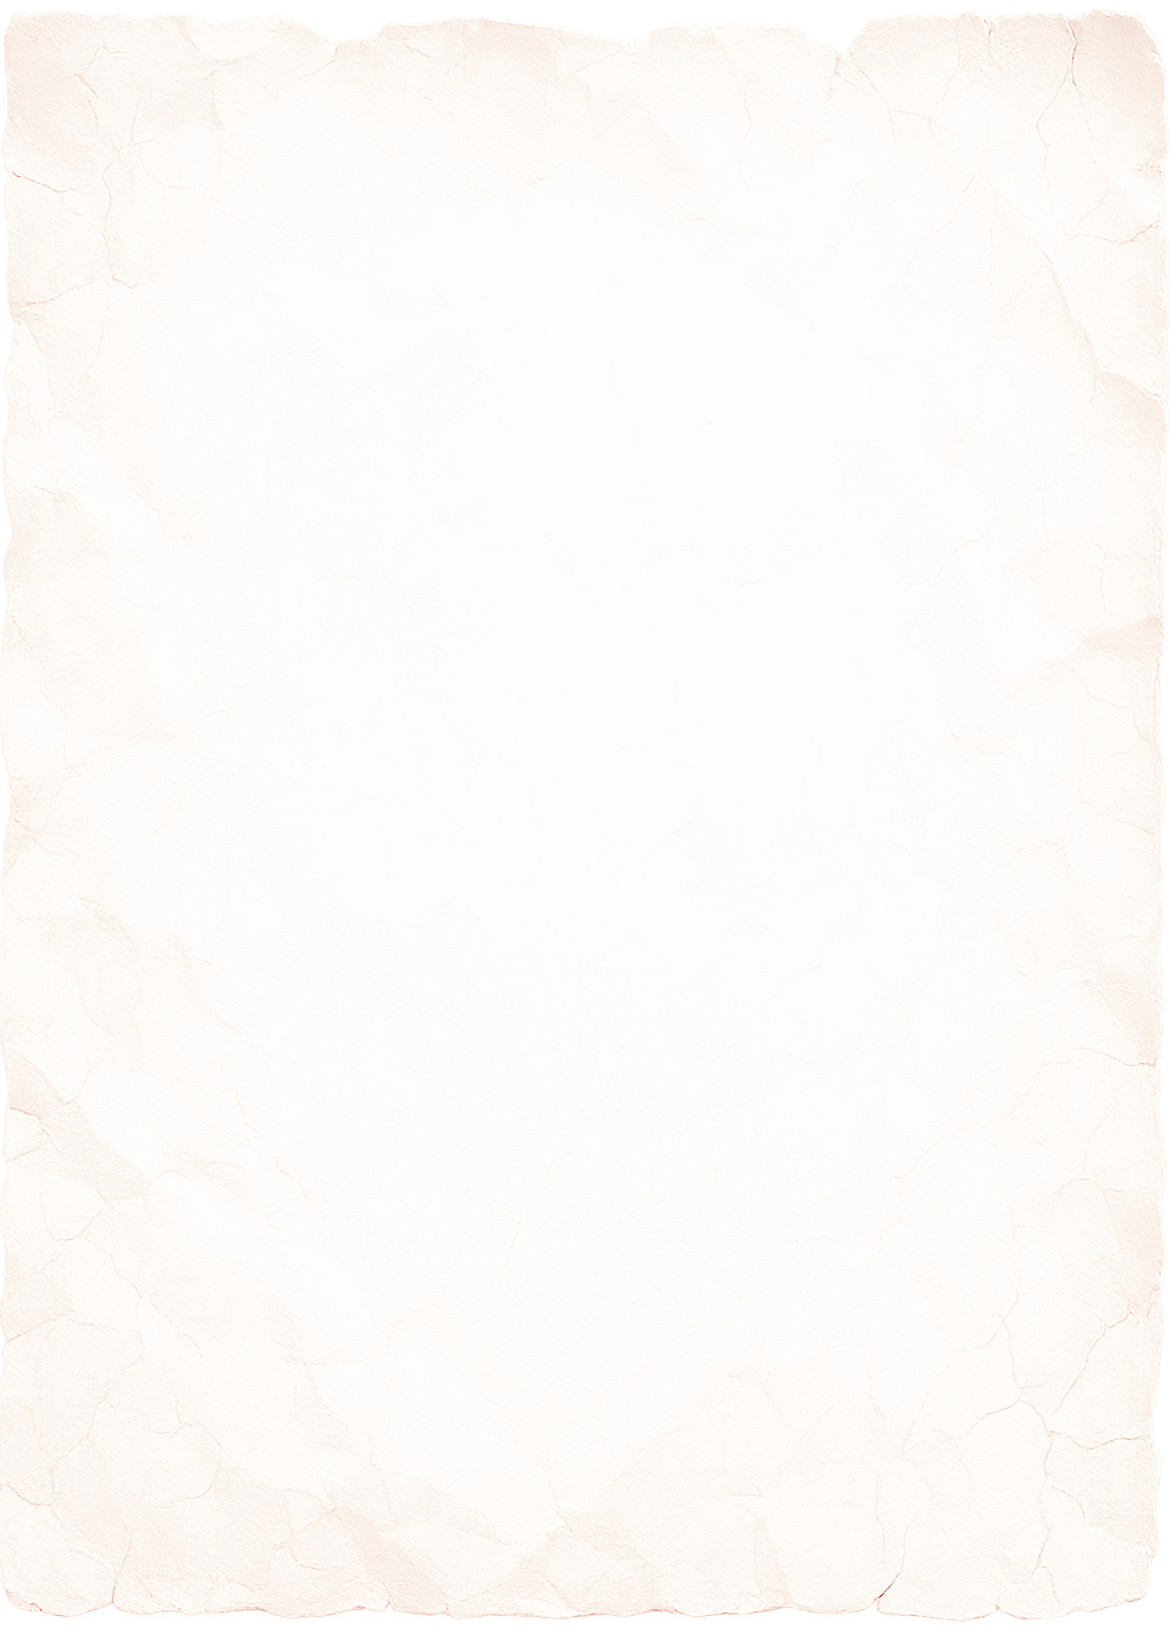
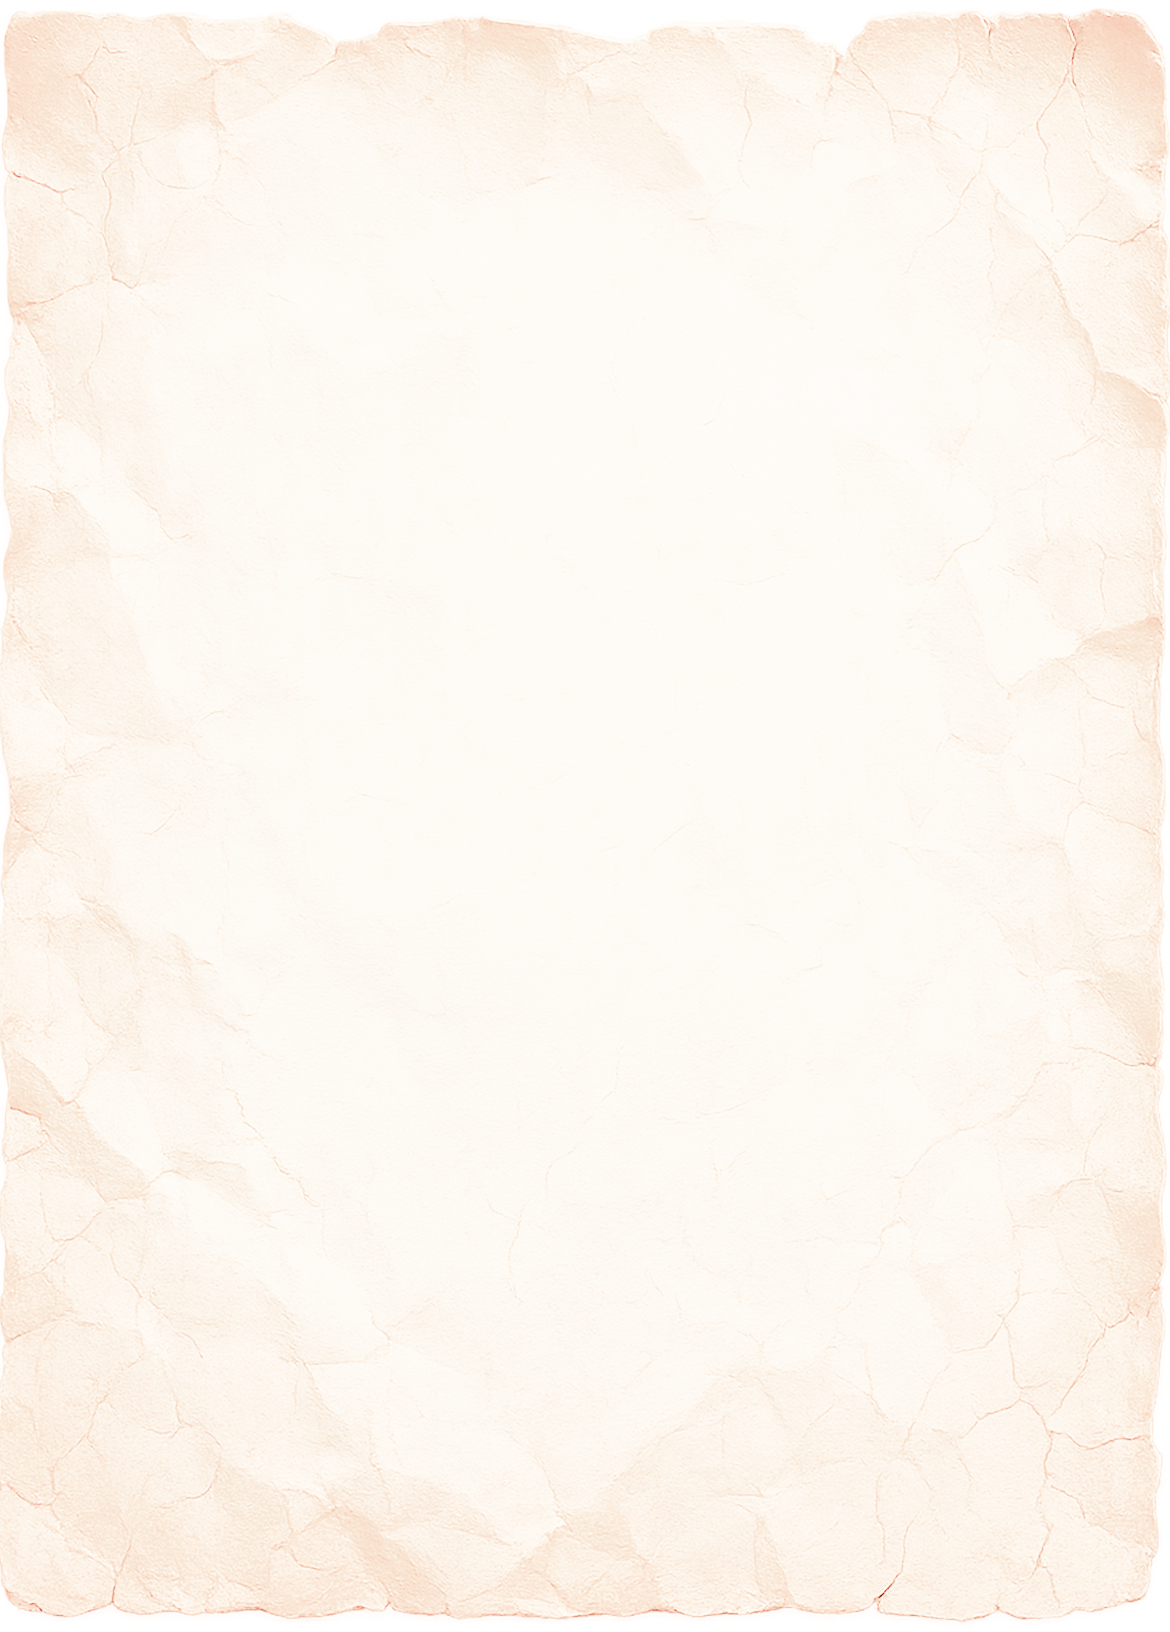
Position paper texture from top on bottom sheets
Changed background-position from 'center' to 'top center' so paper texture
starts from the top of bottom sheets, showing the top portion of the texture.

Applied to all bottom sheets and modals:
- resume-bottom-sheet
- simple-bottom-sheet
- collectible-reward-bottom-sheet
- end-run-modal
- pause-modal
- resume-sheet
- card-picker-modal
- time-modal

diff --git a/src/style.css b/src/style.css
@@ -2358,7 +2358,7 @@ body{
   right: 0;
   background: url('../assets/modals/paper.png');
   background-size: cover;
-  background-position: center;
+  background-position: top center;
   border-radius: 40px 40px 0 0; /* .cornerRadius(40) from Figma */
   box-shadow: 0 -12px 48px rgba(233, 210, 200, 0.5); /* Updated with 50% opacity */
   max-height: 60vh;
@@ -2601,7 +2601,7 @@ body{
   right: 0;
   background: url('../assets/modals/paper.png');
   background-size: cover;
-  background-position: center;
+  background-position: top center;
   border-radius: 40px 40px 0 0; /* .cornerRadius(40) from Figma */
   box-shadow: 0 -12px 48px rgba(233, 210, 200, 0.5); /* Updated with 50% opacity */
   max-height: 60vh;
@@ -2692,7 +2692,7 @@ body{
   max-width: 390px;
   background: url('../assets/modals/paper.png');
   background-size: cover;
-  background-position: center;
+  background-position: top center;
   border-radius: 40px 40px 0 0;
   box-shadow: 0 -12px 48px rgba(233, 210, 200, 0.5);
   padding: 32px 32px 40px;

diff --git a/src/modules/resume-sheet-ui.ts b/src/modules/resume-sheet-ui.ts
@@ -36,7 +36,7 @@ export function addBottomSheetStyles(): void {
       right: 0 !important;
       background: url('../../assets/modals/paper.png') !important;
       background-size: cover !important;
-      background-position: center !important;
+      background-position: top center !important;
       border-radius: 20px 20px 0 0 !important;
       padding: 30px 20px 40px 20px !important;
       box-shadow: 0 -10px 30px rgba(233, 210, 200, 1) !important;

diff --git a/src/modules/end-run-ui.ts b/src/modules/end-run-ui.ts
@@ -164,7 +164,7 @@ export function addEndRunModalStyles(): void {
     .end-run-modal-content {
       background: url('../../assets/modals/paper.png') !important;
       background-size: cover !important;
-      background-position: center !important;
+      background-position: top center !important;
       border-radius: 20px !important;
       padding: 40px !important;
       max-width: 400px !important;

diff --git a/src/modules/pause-ui.ts b/src/modules/pause-ui.ts
@@ -43,7 +43,7 @@ export function createPauseModalContent(): HTMLElement {
   modal.style.cssText = `
     background: url('../../assets/modals/paper.png') !important;
     background-size: cover !important;
-    background-position: center !important;
+    background-position: top center !important;
     border-radius: 20px !important;
     padding: 40px !important;
     max-width: 400px !important;

diff --git a/src/modules/app-core.ts b/src/modules/app-core.ts
@@ -7927,7 +7927,7 @@ async function showResumeGameModal() {
     modal.style.cssText = [
       'background: url(\'../../assets/modals/paper.png\')',
       'background-size: cover',
-      'background-position: center',
+      'background-position: top center',
       'border-radius: 32px',
       'padding: 48px 42px 44px',
       'text-align: center',

diff --git a/src/modules/collectible-reward-ui.ts b/src/modules/collectible-reward-ui.ts
@@ -56,7 +56,7 @@ export function createBottomSheet(detail: CollectibleDetail): HTMLElement {
   sheet.style.cssText = `
     background: url('../../assets/modals/paper.png');
     background-size: cover;
-    background-position: center;
+    background-position: top center;
     border-radius: 20px 20px 0 0;
     max-width: 500px;
     width: 100%;

diff --git a/src/modules/journey-boards-manager.ts b/src/modules/journey-boards-manager.ts
@@ -2690,7 +2690,7 @@ class JourneyBoardsManager {
     modal.style.cssText = `
       background: url('../../assets/modals/paper.png');
       background-size: cover;
-      background-position: center;
+      background-position: top center;
       border-radius: 24px;
       padding: 24px;
       max-width: 90vw;
